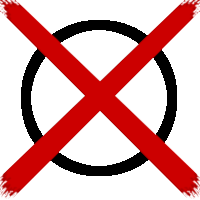
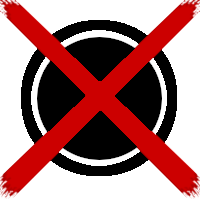
Add another blip state.

diff --git a/magi-knights-awakening/src/components/EclipseChart.vue b/magi-knights-awakening/src/components/EclipseChart.vue
@@ -19,7 +19,7 @@ const getMoonImage = (index) => {
 // Method to toggle between three image states for blips
 const cycleBlipState = (index) => {
   const currentBlip = sheet.eclipse_blips[index];
-  sheet.eclipse_blips[index] = (currentBlip + 1) % 3;
+  sheet.eclipse_blips[index] = (currentBlip + 1) % 4;
 };
 
 const getBlipImage = (index) => {
@@ -28,8 +28,10 @@ const getBlipImage = (index) => {
     case 0:
       return '--blipImage'; // Reference the blip image CSS variable
     case 1:
-      return '--blipXImage'; // Reference the X image CSS variable
+      return '--blipSelectedImage'; // Reference the blip image CSS variable      
     case 2:
+      return '--blipXImage'; // Reference the X image CSS variable
+    case 3:
       return '--blipScratchedImage'; // Reference the scratched image CSS variable
     default:
       return '--blipImage'; // Default image (fallback)

diff --git a/magi-knights-awakening/src/rollTemplates/styles/common.scss b/magi-knights-awakening/src/rollTemplates/styles/common.scss
@@ -76,6 +76,7 @@ rolltemplate.magiknight-template {
   --blipXImage:url('./eclipse-blip-x.png');
   --blipScratchedImage:url('./eclipse-blip-scratched.png');
   --blipCheckedImage:url('./eclipse-blip-checked.png');
+  --blipSelectedImage:url('./eclipse-blip-filled.png');
 
   display: block;
   max-width: 100%;

diff --git a/magi-knights-awakening/src/assets/variables.css b/magi-knights-awakening/src/assets/variables.css
@@ -67,6 +67,7 @@ html{
   --blipXImage:url('./eclipse-blip-x.png');
   --blipScratchedImage:url('./eclipse-blip-scratched.png');
   --blipCheckedImage:url('./eclipse-blip-checked.png');
+  --blipSelectedImage:url('./eclipse-blip-filled.png');
 }
 html.dark{
   --masterBack: var(--dm-masterBack);
